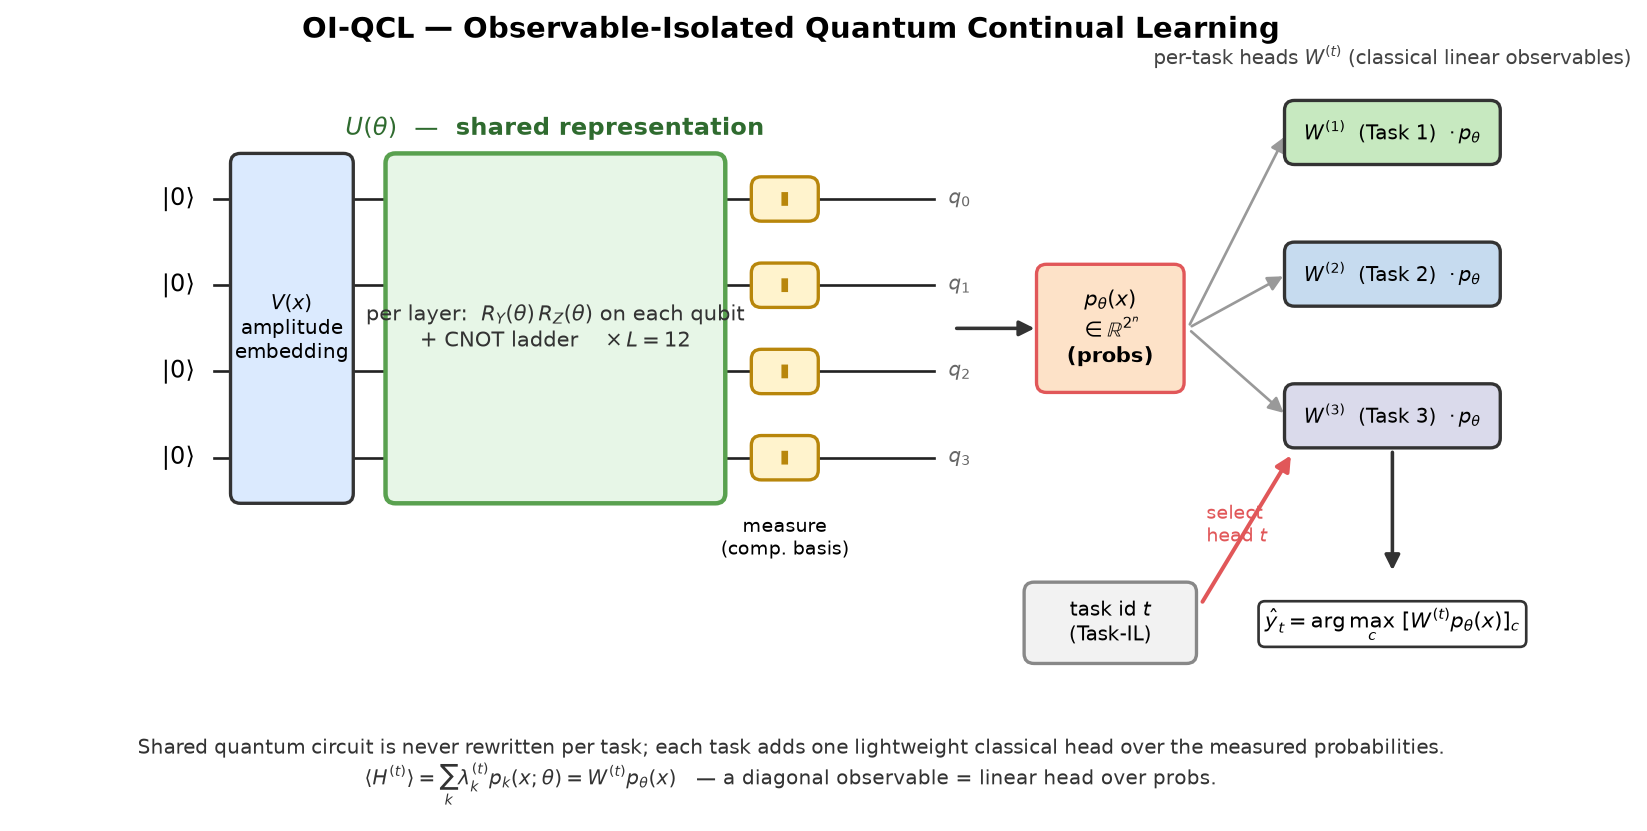
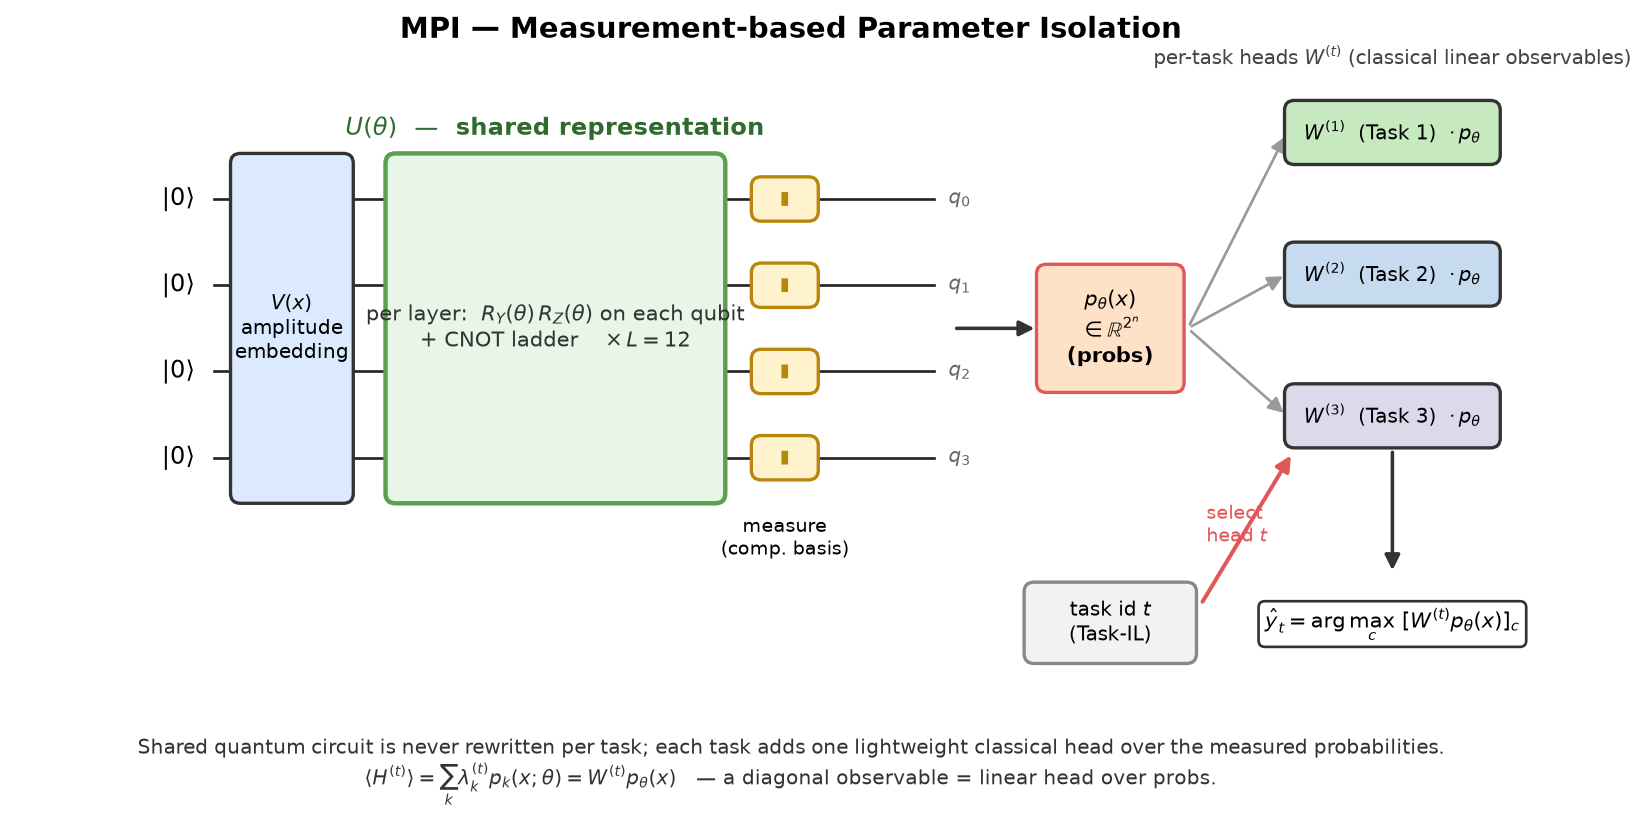
rename: OI-QCL -> MPI (Measurement-based Parameter Isolation) + small mechanism figure
Rename the method name throughout docs, docstrings, and figure titles (filenames/identifiers
unchanged to avoid churn). Regenerate all 11 figures with the MPI name. Add
scripts/plot_e014_mechanism.py -> figures/e014_mechanism.png: a one-slide theta-protection vs
MPI contrast (memory in theta drifts -> forgets, vs memory in the measurement, per-task frozen
observables -> remembers). Tests pass.

Changed region(s): [[0.1858, 0.0, 0.7741, 0.0602]]

diff --git a/scripts/plot_e014_mechanism.py b/scripts/plot_e014_mechanism.py
@@ -1,0 +1,82 @@
+"""Small one-slide mechanism figure: theta-protection vs MPI (where does memory live?)."""
+
+from __future__ import annotations
+
+from pathlib import Path
+
+import matplotlib
+
+matplotlib.use("Agg")
+import matplotlib.pyplot as plt  # noqa: E402
+from matplotlib.patches import FancyArrowPatch, FancyBboxPatch  # noqa: E402
+
+ROOT = Path(__file__).resolve().parents[1]
+FIG = ROOT / "figures"
+
+
+def _box(ax, x, y, w, h, text, fc, ec="#333", fs=10, lw=1.6, weight="normal", tc="#111"):
+    ax.add_patch(FancyBboxPatch((x, y), w, h, boxstyle="round,pad=0.02,rounding_size=0.06",
+                                fc=fc, ec=ec, lw=lw, zorder=3))
+    ax.text(x + w / 2, y + h / 2, text, ha="center", va="center", fontsize=fs, zorder=4,
+            weight=weight, color=tc)
+
+
+def _arrow(ax, xy1, xy2, color="#333", lw=1.6, style="-|>"):
+    ax.add_patch(FancyArrowPatch(xy1, xy2, arrowstyle=style, mutation_scale=13, color=color,
+                                 lw=lw, zorder=2))
+
+
+def _panel(ax, title, good):
+    ax.set_xlim(0, 10)
+    ax.set_ylim(0, 10)
+    ax.axis("off")
+    ax.set_title(title, fontsize=12, weight="bold", color="#2f6b2f" if good else "#8a2b2c")
+
+    # three tasks on the left
+    for i, (ty, lab) in enumerate([(8.2, "Task 1"), (6.0, "Task 2"), (3.8, "Task 3")]):
+        _box(ax, 0.3, ty - 0.55, 1.7, 1.1, lab, "#eef2f7", fs=9)
+
+    if not good:
+        # theta-protection: all tasks REWRITE one circuit -> one drifting readout -> forgets
+        _box(ax, 3.2, 3.3, 3.0, 3.9, "U(θ)\nrewritten\nevery task", "#fde2e1", ec="#c0392b",
+             fs=11, weight="bold")
+        for ty in (8.2, 6.0, 3.8):
+            _arrow(ax, (2.0, ty), (3.2, 5.2), color="#c0392b")
+        _box(ax, 7.0, 4.5, 2.4, 1.5, "one shared\nreadout", "#f2f2f2", fs=9.5)
+        _arrow(ax, (6.2, 5.25), (7.0, 5.25))
+        ax.text(8.2, 3.3, "✗ old tasks\noverwritten\n(forgetting)", ha="center", va="top",
+                fontsize=10, color="#c0392b", weight="bold")
+        ax.text(4.7, 2.6, "memory lives in θ → drifts", ha="center", fontsize=9.5, color="#8a2b2c")
+    else:
+        # MPI: shared frozen circuit + per-task frozen observables
+        _box(ax, 3.2, 3.3, 2.6, 3.9, "U(θ)\nshared\nrepresentation", "#e7f6e7", ec="#2f6b2f",
+             fs=10.5, weight="bold")
+        for ty in (8.2, 6.0, 3.8):
+            _arrow(ax, (2.0, ty), (3.2, 5.2), color="#2f6b2f")
+        _box(ax, 6.0, 4.7, 1.1, 1.0, "probs\np(x)", "#fde8cf", ec="#E15759", fs=8.5, weight="bold")
+        _arrow(ax, (5.8, 5.2), (6.0, 5.2))
+        for i, (hy, lab, fc) in enumerate([(8.0, "W₁", "#c7e9c0"), (5.9, "W₂", "#c6dbef"),
+                                           (3.8, "W₃", "#dadaeb")]):
+            _arrow(ax, (7.1, 5.2), (7.9, hy + 0.3), color="#999", lw=1.2)
+            _box(ax, 7.9, hy, 1.5, 0.62, f"{lab}  (task {i+1})", fc, fs=8.5)
+        ax.text(6.7, 8.9, "one observable per task\n(frozen)", ha="center", fontsize=8.5, color="#444")
+        ax.text(4.6, 2.7, "memory lives in the measurement", ha="center", fontsize=9.5, color="#2f6b2f")
+        ax.text(6.9, 1.7, "✓ each task keeps its own\nway to measure → remembers",
+                ha="center", va="top", fontsize=9.5, color="#2f6b2f", weight="bold")
+
+
+def main() -> None:
+    fig, (axl, axr) = plt.subplots(1, 2, figsize=(12.5, 5.2))
+    _panel(axl, "θ-protection  (EWC / QEWC)", good=False)
+    _panel(axr, "MPI — Measurement-based Parameter Isolation  (ours)", good=True)
+    fig.suptitle("Where should a quantum model's continual memory live?",
+                 fontsize=13.5, weight="bold")
+    fig.tight_layout(rect=(0, 0, 1, 0.95))
+    FIG.mkdir(exist_ok=True)
+    out = FIG / "e014_mechanism.png"
+    fig.savefig(out, dpi=160)
+    print(f"wrote {out.relative_to(ROOT)}")
+
+
+if __name__ == "__main__":
+    main()

diff --git a/experiments/e014_hardware_eval.py b/experiments/e014_hardware_eval.py
@@ -1,6 +1,6 @@
 """E014 hardware evaluation on an IBM QPU (separate hardware path).
 
-OI-QCL is unusually hardware-friendly: the head is a classical linear map, deployment needs
+MPI is unusually hardware-friendly: the head is a classical linear map, deployment needs
 no quantum gradients (just forward sampling), all task heads share ONE measurement basis
 (computational), and the readout can be a few local qubits on a shallow circuit. So we:
 
@@ -167,7 +167,7 @@ def run(*, task="mnist", layers=4, readout=(0, 1), epochs=20, n_head=150, n_test
                                                              "qiskit-aer", "pennylane")}},
         "config": {"task": t.name, "layers": layers, "readout_qubits": list(readout),
                    "n_qubits": N_QUBITS, "n_head_fit": n_head, "n_test": n_test, "shots": shots,
-                   "seed": seed, "variant": "OI-QCL frozen-A; sim training, QPU readout"},
+                   "seed": seed, "variant": "MPI frozen-A; sim training, QPU readout"},
         "backend": backend_used, "ibm_job_id": job_id,
         "test_accuracy": round(acc, 4), "n_test": int(len(yte)),
         "elapsed_sec": round(time.perf_counter() - started, 1),
@@ -300,7 +300,7 @@ def run_qewc_cl(*, layers=4, epochs=20, lam_qewc=0.8, qfi_samples=32, n_train=25
 
 def run_cl(*, layers=4, readout=(0, 1, 2, 3), epochs=20, n_head=250, n_test=48,
            shots=4096, backend_name="aer", seed=42) -> dict[str, Any]:
-    """Complete OI-QCL frozen-A across all 3 tasks: shared theta trained on T1 (sim), each
+    """Complete MPI frozen-A across all 3 tasks: shared theta trained on T1 (sim), each
     task's head fit + evaluated; report per-task noiseless-sim vs backend accuracy."""
     from sklearn.linear_model import LogisticRegression
 
@@ -370,7 +370,7 @@ def run_cl(*, layers=4, readout=(0, 1, 2, 3), epochs=20, n_head=250, n_test=48,
         "config": {"tasks": [t.name for _, t in tasks], "layers": layers,
                    "readout_qubits": list(readout), "n_qubits": N_QUBITS, "n_head_fit": n_head,
                    "n_test": n_test, "shots": shots, "seed": seed,
-                   "variant": "OI-QCL frozen-A (shared theta from T1); sim training, QPU readout"},
+                   "variant": "MPI frozen-A (shared theta from T1); sim training, QPU readout"},
         "backend": backend_name if backend_name == "aer" else backend.name,
         "ibm_job_ids": jobs, "per_task": per_task,
         "elapsed_sec": round(time.perf_counter() - started, 1),
@@ -381,7 +381,7 @@ def main() -> None:
     ap = argparse.ArgumentParser()
     ap.add_argument("--all-tasks", action="store_true", help="frozen-A across MNIST/Fashion/SPT")
     ap.add_argument("--method", choices=["oiqcl", "qewc"], default="oiqcl",
-                    help="with --all-tasks: OI-QCL frozen-A (default) or QEWC shared readout")
+                    help="with --all-tasks: MPI frozen-A (default) or QEWC shared readout")
     ap.add_argument("--task", choices=["mnist", "fashion", "spt"], default="mnist")
     ap.add_argument("--backend", default="aer", help="'aer' (dry-run) or an IBM backend name")
     ap.add_argument("--layers", type=int, default=4)

diff --git a/scripts/plot_e014_fair_compare.py b/scripts/plot_e014_fair_compare.py
@@ -1,9 +1,9 @@
 """Fair task-agnostic comparison: no method uses a task oracle at test.
 
-baseline / EWC / QEWC use a single shared readout (never needed a task id); OI-QCL is
+baseline / EWC / QEWC use a single shared readout (never needed a task id); MPI is
 evaluated with the learned linear router over p_θ(x) (task id inferred, not given). This
 puts every method on equal footing. Bars = final average test accuracy, 3-seed mean +/- SD.
-Hollow caps on the OI-QCL bars mark the Task-IL ceiling (task id given) for reference.
+Hollow caps on the MPI bars mark the Task-IL ceiling (task id given) for reference.
 
 Sources: results/e014_compare_seed*.json (ACC of sequential/ewc/qewc, already task-agnostic)
 and results/e014_task_inference_seed*.json (router_task_agnostic_accuracy of A/C).
@@ -41,9 +41,9 @@ def main() -> None:
         ("Sequential\n(naive)", [r["methods"]["sequential"]["ACC"] for r in cmp_runs], "#b0b0b0", None, None),
         ("EWC", [r["methods"]["ewc"]["ACC"] for r in cmp_runs], "#a0a0a0", None, None),
         ("QEWC", [r["methods"]["qewc"]["ACC"] for r in cmp_runs], "#808080", None, None),
-        ("OI-QCL (A)\n+ router", [r["methods"]["frozen_head"]["router_task_agnostic_accuracy"] for r in ti_runs],
+        ("MPI (A)\n+ router", [r["methods"]["frozen_head"]["router_task_agnostic_accuracy"] for r in ti_runs],
          "#59A14F", [r["methods"]["frozen_head"]["known_task_accuracy"] for r in ti_runs], None),
-        ("OI-QCL (C)\n+ router", [r["methods"]["anchor_head"]["router_task_agnostic_accuracy"] for r in ti_runs],
+        ("MPI (C)\n+ router", [r["methods"]["anchor_head"]["router_task_agnostic_accuracy"] for r in ti_runs],
          "#E15759", [r["methods"]["anchor_head"]["known_task_accuracy"] for r in ti_runs], None),
         ("Classical\nmulti-head\n(raw, no circuit)", [r["task_agnostic_accuracy"] for r in cb_runs],
          "#9467bd", [r["taskIL_ACC"] for r in cb_runs], "///"),
@@ -72,12 +72,12 @@ def main() -> None:
     ax.axvspan(4.5, 5.5, color="#f3eefa", zorder=0)
     ax.text(1.0, 1.005, "θ-protection (single head)", ha="center", va="top",
             transform=ax.get_xaxis_transform(), fontsize=8.5, color="0.4")
-    ax.text(3.5, 1.005, "OI-QCL + router (quantum)", ha="center", va="top",
+    ax.text(3.5, 1.005, "MPI + router (quantum)", ha="center", va="top",
             transform=ax.get_xaxis_transform(), fontsize=8.5, color="0.4")
     ax.text(5.0, 1.005, "classical control", ha="center", va="top",
             transform=ax.get_xaxis_transform(), fontsize=8.5, color="#6a4a9a")
     ax.set_title("Fair comparison (no task oracle) + matched classical control\n"
-                 "OI-QCL beats θ-protection; a classical multi-head on the raw input wins —\n"
+                 "MPI beats θ-protection; a classical multi-head on the raw input wins —\n"
                  "no quantum advantage on this classically-easy benchmark",
                  fontsize=10.5)
     ax.grid(axis="y", alpha=0.15)

diff --git a/experiments/e014_classical_baseline.py b/experiments/e014_classical_baseline.py
@@ -1,15 +1,15 @@
-"""E014 matched-capacity classical baseline: is OI-QCL "just a classical multi-head"?
+"""E014 matched-capacity classical baseline: is MPI "just a classical multi-head"?
 
-OI-QCL puts a per-task linear head on the QUANTUM probabilities p_theta(x) in R^{2^n}. The
+MPI puts a per-task linear head on the QUANTUM probabilities p_theta(x) in R^{2^n}. The
 matched control is the SAME head capacity on the RAW input instead: a per-task logistic head
 on the amplitude-embedding feature vector x_tilde in R^{2^n} (the same 16-dim vector that
 would be fed to AmplitudeEmbedding), with NO quantum circuit at all. Same dimensionality, same
-linear head, same Task-IL / task-agnostic protocols. If OI-QCL >> this, the quantum feature
+linear head, same Task-IL / task-agnostic protocols. If MPI >> this, the quantum feature
 map p_theta carries extra separable, forgetting-resistant information; if ~=, the circuit adds
 nothing on this benchmark.
 
 Reports (mean over seeds), for the classical multi-head:
-  * per-task Task-IL accuracy + average (task id given)  -> compare vs OI-QCL frozen/anchor ACC
+  * per-task Task-IL accuracy + average (task id given)  -> compare vs MPI frozen/anchor ACC
   * task-agnostic accuracy via a classical linear router over x_tilde (task id inferred)
 No quantum gradients, no circuit: pure sklearn on the raw features.
 """
@@ -93,7 +93,7 @@ def run(*, n_train=800, n_test=200, seed=42, verbose=True) -> dict[str, Any]:
         "environment": {"python": platform.python_version(),
                         "packages": {p: version(p) for p in ("numpy", "scikit-learn")}},
         "config": {"model": "per-task logistic head on raw 2^n amplitude input (NO quantum circuit)",
-                   "matched_to": "OI-QCL head over quantum probs p_theta(x) (same dim, same head)",
+                   "matched_to": "MPI head over quantum probs p_theta(x) (same dim, same head)",
                    "tasks": [t.name for t in tasks], "n_qubits": N_QUBITS,
                    "n_train": n_train, "n_test": n_test, "seed": seed},
         "per_task": per_task,

diff --git a/scripts/plot_e014_trajectory.py b/scripts/plot_e014_trajectory.py
@@ -1,6 +1,6 @@
 """Three-panel per-task test-accuracy curves for E014 (e009/e013 style).
 
-OI-QCL (measurement-side) vs shared-readout baselines across the sequential
+MPI (measurement-side) vs shared-readout baselines across the sequential
 MNIST -> Fashion -> SPT/ATF run, with task boundaries and three-seed mean/SD bands.
 """
 
@@ -30,9 +30,9 @@ METHODS = {
     "sequential": ("Sequential (naive)", "#777777", "--"),
     "ewc": ("EWC (classical Fisher)", "#F28E2B", (0, (4, 1, 1, 1))),
     "qewc": ("QEWC (QFI consolidation, E005)", "#4C78A8", ":"),
-    "frozen_head": ("OI-QCL frozen θ + heads (A)", "#59A14F", "-"),
-    "free_head": ("OI-QCL free θ + heads (B)", "#B07AA1", "-."),
-    "anchor_head": ("OI-QCL anchor θ + heads (C)", "#E15759", "-"),
+    "frozen_head": ("MPI frozen θ + heads (A)", "#59A14F", "-"),
+    "free_head": ("MPI free θ + heads (B)", "#B07AA1", "-."),
+    "anchor_head": ("MPI anchor θ + heads (C)", "#E15759", "-"),
 }
 
 
@@ -93,8 +93,8 @@ def main() -> None:
             ax.legend(loc="lower left", fontsize=8.5, framealpha=0.9)
 
     axes[-1].set_xlabel(f"Epoch (gradient step; {epochs_per_task} per task)")
-    fig.suptitle("OI-QCL (measurement-side) vs θ-protection — MNIST → Fashion → SPT/ATF\n"
-                 f"seeds {list(SEEDS)} (test accuracy; OI-QCL uses task id / Task-IL — "
+    fig.suptitle("MPI (measurement-side) vs θ-protection — MNIST → Fashion → SPT/ATF\n"
+                 f"seeds {list(SEEDS)} (test accuracy; MPI uses task id / Task-IL — "
                  "fair no-oracle comparison: figures/e014_fair_compare.png)", fontsize=11.5)
     fig.tight_layout(rect=(0, 0, 1, 0.97))
 

diff --git a/scripts/plot_e014_depth_ablation.py b/scripts/plot_e014_depth_ablation.py
@@ -1,4 +1,4 @@
-"""Plot OI-QCL accuracy vs ansatz depth / gate count — how few gates keep the effect."""
+"""Plot MPI accuracy vs ansatz depth / gate count — how few gates keep the effect."""
 
 from __future__ import annotations
 
@@ -26,8 +26,8 @@ def main() -> None:
     theta = [pd[str(L)]["cost"]["theta_params"] for L in Ls]
 
     fig, ax = plt.subplots(figsize=(9, 5))
-    for m, color, lab in [("frozen_head", "#59A14F", "OI-QCL frozen θ (A)"),
-                          ("anchor_head", "#E15759", "OI-QCL anchor θ (C)")]:
+    for m, color, lab in [("frozen_head", "#59A14F", "MPI frozen θ (A)"),
+                          ("anchor_head", "#E15759", "MPI anchor θ (C)")]:
         mean = np.array([pd[str(L)]["acc"][m]["ACC_mean"] for L in Ls])
         sd = np.array([pd[str(L)]["acc"][m]["ACC_sd"] for L in Ls])
         ax.plot(Ls, mean, "o-", color=color, lw=2, label=lab)
@@ -47,7 +47,7 @@ def main() -> None:
     secax.set_xticklabels([f"{q}cx\n{dp}dp" for q, dp in zip(twoq, depth)], fontsize=8)
     secax.set_xlabel("ansatz 2-qubit gates (cx) / circuit depth (dp)  "
                      "— AmplitudeEmbedding state-prep counted separately", fontsize=8.5)
-    ax.set_title("OI-QCL accuracy is nearly flat in circuit depth — the effect is in the readout\n"
+    ax.set_title("MPI accuracy is nearly flat in circuit depth — the effect is in the readout\n"
                  "L=4 (12 CNOTs, 3× fewer) matches L=12; even L=1 (3 CNOTs) already beats QEWC by ~0.10",
                  fontsize=10.5)
     ax.legend(loc="lower right", fontsize=9)

diff --git a/experiments/e014_noise_compare.py b/experiments/e014_noise_compare.py
@@ -1,7 +1,7 @@
-"""E014 noisy readout: how much does gate+readout noise cost OI-QCL?
+"""E014 noisy readout: how much does gate+readout noise cost MPI?
 
 Train the shared backbone noiselessly on Task 1 (Variant A), then read out the per-task
-linear-head OI-QCL classifier under two conditions -- noiseless (default.qubit) and noisy
+linear-head MPI classifier under two conditions -- noiseless (default.qubit) and noisy
 (default.mixed, config {'bit':0,'phase':0,'depol':0.01,'meas':0.02}) -- fitting each task's
 head on the probabilities actually observed. This is the "train on the simulator, deploy
 under noise" comparison, reported for the full 2^n readout and the m=2 local readout (the
@@ -92,7 +92,7 @@ def run(*, layers=12, lr=0.05, epochs=20, n_train=400, n_test=200, readouts=(Non
                         "packages": {p: version(p) for p in ("pennylane", "numpy", "scikit-learn")}},
         "config": {"noise": cfg, "layers": layers, "epochs_task1": epochs, "n_qubits": N_QUBITS,
                    "n_train": n_train, "n_test": n_test, "seeds": list(seeds),
-                   "variant": "OI-QCL frozen theta_1 (A); noiseless training, noisy readout",
+                   "variant": "MPI frozen theta_1 (A); noiseless training, noisy readout",
                    "device": "default.qubit (train/noiseless) + default.mixed (noisy readout)"},
         "summary": summary, "elapsed_sec": round(time.perf_counter() - started, 1),
     }

diff --git a/scripts/plot_e014_circuit.py b/scripts/plot_e014_circuit.py
@@ -1,4 +1,4 @@
-"""Draw the OI-QCL circuit: (1) an authentic PennyLane render of the VQC with a probs
+"""Draw the MPI circuit: (1) an authentic PennyLane render of the VQC with a probs
 readout, and (2) a concept schematic showing the shared quantum representation feeding
 per-task classical observable heads selected by the task id.
 """
@@ -32,7 +32,7 @@ def draw_authentic(n_layers: int = 2) -> None:
     w = 0.5 * np.random.default_rng(1).standard_normal(shape)
     fig, ax = qml.draw_mpl(qnode, decimals=2, style="pennylane")(
         pnp.array(x, requires_grad=False), pnp.array(w))
-    ax.set_title(f"OI-QCL VQC (n=4, L={n_layers} shown; L=12 used) — probs readout",
+    ax.set_title(f"MPI VQC (n=4, L={n_layers} shown; L=12 used) — probs readout",
                  fontsize=11)
     out = FIG / "e014_circuit_pennylane.png"
     fig.savefig(out, dpi=150, bbox_inches="tight")
@@ -117,7 +117,7 @@ def draw_schematic() -> None:
             r"$\langle H^{(t)}\rangle=\sum_k \lambda_k^{(t)} p_k(x;\theta)=W^{(t)}p_\theta(x)$   "
             "— a diagonal observable = linear head over probs.",
             ha="center", va="center", fontsize=9.2, color="#333")
-    ax.set_title("OI-QCL — Observable-Isolated Quantum Continual Learning",
+    ax.set_title("MPI — Measurement-based Parameter Isolation",
                  fontsize=13, weight="bold")
 
     out = FIG / "e014_circuit.png"

diff --git a/scripts/plot_e014_hardware_compare.py b/scripts/plot_e014_hardware_compare.py
@@ -1,4 +1,4 @@
-"""OI-QCL vs QEWC on real IBM hardware — per-task + average accuracy (frozen-A vs QFI theta)."""
+"""MPI vs QEWC on real IBM hardware — per-task + average accuracy (frozen-A vs QFI theta)."""
 
 from __future__ import annotations
 
@@ -32,7 +32,7 @@ def main() -> None:
     fig, ax = plt.subplots(figsize=(9.5, 5))
     x = np.arange(len(labels))
     w = 0.38
-    ax.bar(x - w / 2, oi, w, color="#59A14F", label="OI-QCL (measurement-side)")
+    ax.bar(x - w / 2, oi, w, color="#59A14F", label="MPI (measurement-side)")
     ax.bar(x + w / 2, qe, w, color="#4C78A8", label="QEWC (θ-protection)")
     for xi, (a, b) in enumerate(zip(oi, qe)):
         ax.text(xi - w / 2, a + 0.012, f"{a:.2f}", ha="center", fontsize=8.5,
@@ -47,7 +47,7 @@ def main() -> None:
     ax.set_ylim(0.2, 1.05)
     ax.grid(axis="y", alpha=0.15)
     ax.legend(loc="lower left", fontsize=9)
-    ax.set_title(f"Continual learning on real IBM hardware ({backend}) — OI-QCL vs QEWC\n"
+    ax.set_title(f"Continual learning on real IBM hardware ({backend}) — MPI vs QEWC\n"
                  f"avg {oi[-1]:.2f} vs {qe[-1]:.2f} (gap +{oi[-1]-qe[-1]:.2f}); QEWC forgets T1 "
                  "and its QFI mis-anchors under noise\n"
                  f"n_test={n_test}/task, {shots} shots, 1 seed — per-task numbers are noisy; "

diff --git a/experiments/e014_classical_local_t3.py b/experiments/e014_classical_local_t3.py
@@ -7,9 +7,9 @@ Continual sequence MNIST -> Fashion -> cluster-Ising. The classical multi-head c
     device only yields local measurements, and full-state readout costs exponentially many shots).
 
 Near the SPT transition the phases have overlapping local observables and differ only in nonlocal
-string order, so the local classical head fails on T3, dragging its continual average below OI-QCL
+string order, so the local classical head fails on T3, dragging its continual average below MPI
 (which amplitude-embeds the state and lets the circuit reconstruct the nonlocal order). This is the
-"quantum matters" comparison: OI-QCL beats the classical control BECAUSE of the quantum task.
+"quantum matters" comparison: MPI beats the classical control BECAUSE of the quantum task.
 """
 
 from __future__ import annotations
@@ -125,7 +125,7 @@ def main() -> None:
     out.write_text(json.dumps(result, indent=2) + "\n", encoding="utf-8")
     print(f"\nclassical avg (T3 amplitude) = {result['classical_avg_ACC_amplitudeT3']['mean']:.3f}")
     print(f"classical avg (T3 LOCAL)     = {result['classical_avg_ACC_localT3']['mean']:.3f}")
-    print(f"OI-QCL (m2, cluster)         = 0.939 (A) / 0.944 (C)")
+    print(f"MPI (m2, cluster)         = 0.939 (A) / 0.944 (C)")
     print(f"wrote {out.relative_to(ROOT)}")
 
 

diff --git a/scripts/plot_e014_noise_compare.py b/scripts/plot_e014_noise_compare.py
@@ -56,10 +56,10 @@ def main() -> None:
     ax.axvspan(-0.5, 2.5, color="0.96", zorder=0)
     ax.text(1.0, 0.98, "θ-protection", ha="center", va="top", transform=ax.get_xaxis_transform(),
             fontsize=8.5, color="0.4")
-    ax.text(4.0, 0.98, "OI-QCL (measurement-side)", ha="center", va="top",
+    ax.text(4.0, 0.98, "MPI (measurement-side)", ha="center", va="top",
             transform=ax.get_xaxis_transform(), fontsize=8.5, color="0.4")
-    ax.set_title("All methods under noise (depol %.2f, meas %.2f) — OI-QCL is the most robust\n"
-                 "QEWC degrades most (−0.10; its QFI is a pure-state property); OI-QCL A/C drop ~0.01\n"
+    ax.set_title("All methods under noise (depol %.2f, meas %.2f) — MPI is the most robust\n"
+                 "QEWC degrades most (−0.10; its QFI is a pure-state property); MPI A/C drop ~0.01\n"
                  "reduced config (%dL/%dep/n=%d, 3 seeds; default.mixed ~250x slower than pure)"
                  % (cfg["noise"]["depol"], cfg["noise"]["meas"], cfg["layers"],
                     cfg["epochs_per_task"], cfg["n_train_per_task"]), fontsize=10)

diff --git a/scripts/plot_e014_hardware.py b/scripts/plot_e014_hardware.py
@@ -1,4 +1,4 @@
-"""Per-task OI-QCL accuracy: noiseless sim vs Aer(shots) vs real QPU (frozen-A, all 3 tasks).
+"""Per-task MPI accuracy: noiseless sim vs Aer(shots) vs real QPU (frozen-A, all 3 tasks).
 
 Reads results/e014_hardware_aer_alltasks.json (sim + Aer) and, if present, any real-backend
 results/e014_hardware_<backend>_alltasks.json to add the QPU bars.
@@ -58,7 +58,7 @@ def main() -> None:
     ax.grid(axis="y", alpha=0.15)
     ax.legend(loc="lower right", fontsize=9)
     sub = "sim vs Aer" if qpu is None else f"sim vs Aer vs {qpu_name}"
-    ax.set_title("OI-QCL on IBM stack — per-task readout, shared frozen backbone (%s)\n"
+    ax.set_title("MPI on IBM stack — per-task readout, shared frozen backbone (%s)\n"
                  "L=%d, readout=%d qubits, n_test=%d, %d shots; measurement-side readout is "
                  "shot-noise robust" % (sub, aer["config"]["layers"],
                  len(aer["config"]["readout_qubits"]), aer["config"]["n_test"], shots), fontsize=10)
